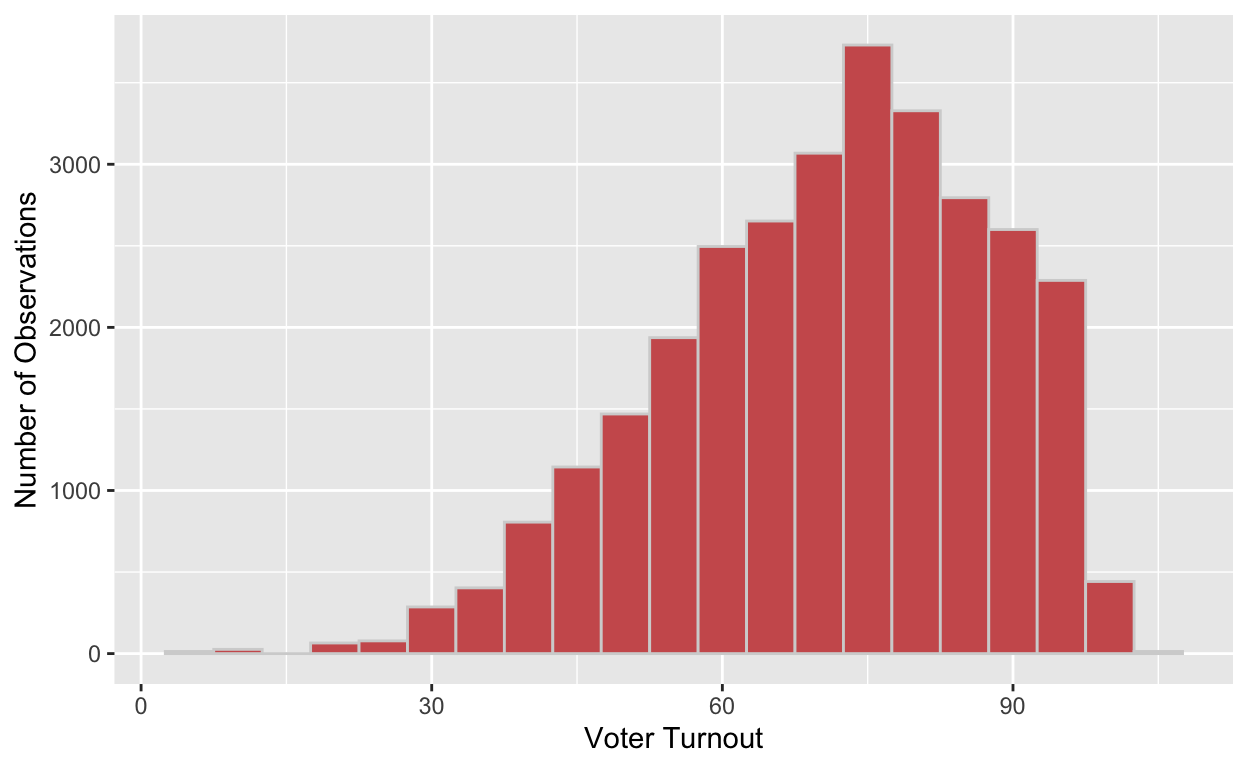
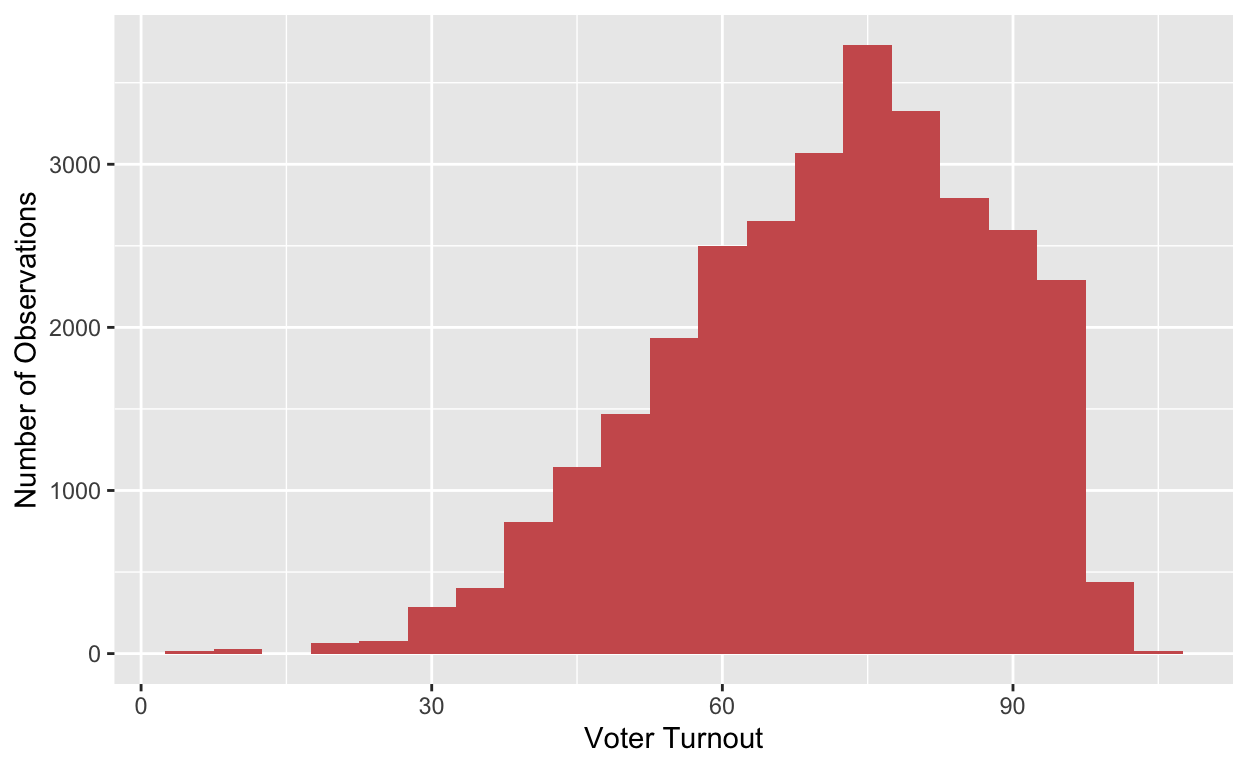
final commits

diff --git a/index.html b/index.html
@@ -1547,8 +1547,8 @@ code span.wa { color: #5e5e5e; font-style: italic; } /* Warning */
 <h2 id="introduction">Introduction</h2>
 <p>In this project, I will study different countries that are classified as electoral democracies and assess how these countries’ democracy level scores impact their election voter turnout.</p>
 <h3 id="hypothesis">Hypothesis</h3>
-<p>My hypothesis is that citizens in countries classified as having a lower level of democracy are going to be less likely to vote than citizens who live in countries that have a higher democracy score. I predict that there will be a positive relationship between my variables. In other words, as the level of democracy increases then voter turnout will also increase.</p>
-<p>I predict this to be the relationship since lower levels of democracy are often linked to corruption which could jeopardize the legitimacy of elections. For citizens living in countries that hold elections that are not free and fair, they could perceive that their vote does not matter leading to lower levels of voter turnout. I believe that this topic is interesting because 100% voter turnout is incredibly rare, and I am interested in how there are some people who actively chose not to vote in their nation’s elections, despite the fact that the policies that their elected officials make will impact them.</p>
+<p>My hypothesis is that citizens in countries classified as having a lower level of democracy are going to be less likely to vote than citizens who live in countries that have a higher democracy score. I predict that there will be a positive relationship between my variables. In other words, as the level of democracy increases the voter turnout will also increase.</p>
+<p>I predict this to be the relationship since lower levels of democracy are often linked to corruption which could jeopardize the legitimacy of elections. For citizens living in countries that hold elections that are not free and fair, they could perceive their vote as not mattering leading to lower levels of voter turnout. I believe that this topic is interesting because 100% voter turnout is incredibly rare, and I am interested in how there are some people who actively chose not to vote in their nation’s elections, despite the fact that the policies that their elected officials make will impact them.</p>
 <div class="layout-chunk" data-layout="l-body">
 
 </div>
@@ -1563,12 +1563,12 @@ code span.wa { color: #5e5e5e; font-style: italic; } /* Warning */
 <h3 id="research-design">Research Design</h3>
 <p>My research design is cross-sectional.</p>
 <h3 id="dependent-and-independent-variables">Dependent and Independent Variables</h3>
-<p>My independent variable is the total aggregate democratic score level from the “Freedom House” data set. This variable is on a scale from 0 to 100, where 100 represents the highest level of freedom and 0 the lowest.</p>
+<p>My independent variable is the democracy level of a country. In this project I used the total aggregate democratic score level from the “Freedom House” data set and the electoral democracy classification variable from the “Electoral Democracy” data. The total score variable is on a scale from 0 to 100, where 100 represents the highest level of freedom and 0 the lowest. The electoral democracy classification variable is either Yes(for an electoral democracy) or No(for a non-electoral democracy).</p>
 <p>My dependent variable is the voter turnout in a country from my data set “Voter Turnout”. This variable is measured as a percentage.</p>
 <h3 id="criteria-for-my-hypothesis">Criteria For My Hypothesis</h3>
 <p>Since my hypothesis is that as the level of democracy increases then voter turnout will also increase, a pattern that would support my hypothesis would be lower voter turnout in countries with lower total democratic level scores and higher voter turnout in countries with greater democratic scores.</p>
 <h2 id="visualizations">Visualizations</h2>
-<h3 id="distribution-of-voter-turnout">Distribution of Voter Turnout</h3>
+<h3 id="visualization-of-the-outcome-variable---voter-turnout">Visualization of the Outcome Variable - Voter Turnout</h3>
 <div class="layout-chunk" data-layout="l-body">
 <p><img src="index_files/figure-html5/unnamed-chunk-3-1.png" alt="" width="624" /></p>
 </div>
@@ -1594,7 +1594,7 @@ code span.wa { color: #5e5e5e; font-style: italic; } /* Warning */
 </table>
 </div>
 <h2 id="table-and-graph-anaylsis">Table and Graph Anaylsis</h2>
-<p>Countries that received the electoral democracy status from Freedom House meet a baseline of being more democratic than the countries that were categorized as non-electoral democracies. Comparing the voter turnout of electoral democracies vs. non-electoral democracies gives us insight into how the level of democracy in a country may impact its voter turnout. Based on the boxplot for voter turnout by electoral democracy status and the table of mean voter turnout for democracies and non-democracies, countries that are classified as electoral democracies have higher levels of voter participation. In the boxplot we can see that the median voter turnout for electoral democracies is higher than the median of non-electoral democracies voter turnout. This is also represented in the table of mean voter turnout, since electoral democracies had a greater mean value of voter turnout than non-electoral democracies did. </p>
+<p>Countries that received the electoral democracy status from Freedom House meet a baseline of being more democratic than the countries that were categorized as non-electoral democracies. Comparing the voter turnout of electoral democracies vs. non-electoral democracies gives us insight into how the level of democracy in a country may impact its voter turnout. Based on the boxplot for voter turnout by electoral democracy status and the table of mean voter turnout for democracies and non-democracies, countries that are classified as electoral democracies have higher levels of voter participation. In the boxplot we can see that the median voter turnout for electoral democracies is higher than the median of non-electoral democracies voter turnout. This is also represented in the table of mean voter turnout, since electoral democracies had a greater mean value of voter turnout than non-electoral democracies did.</p>
 <h2 id="regression">Regression</h2>
 <h3 id="regression-plot">Regression Plot</h3>
 <div class="layout-chunk" data-layout="l-body">
@@ -1633,7 +1633,7 @@ code span.wa { color: #5e5e5e; font-style: italic; } /* Warning */
 <h2 id="regression-analysis">Regression Analysis</h2>
 <p>Based on this regression line, we can see that there is a positive relationship between a country’s democracy score and its voter turnout. The y-intercept is 59.49, which in this context says that the baseline of voter turnout is around 59.49 percent. In addition, for every one point increase in a country’s democracy score given to it by Freedom House(where 0 is a low democracy score and 100 is a high democracy score) voter turnout is expected to increase by 0.16. In addition, the p-value is 0 which indicates high statistical significance. If I want to reject the null hypothesis that democracy level has no impact on voter turnout with 95% confidence, I would use an alpha value of 0.05. Since a p-value of 0 is less than 0.05, we can reject the null hypothesis. We can conclude that these results are incredibly unlikely to have occurred by chance, and therefore interpret that democracy level has a significant positive correlation with voter turnout. While we can see this positive relationship between the variables, in order to with confidence claim a causal relationship we would have to ensure that there are no confounding variables which would be difficult due to the high number of unmeasured differences between countries.</p>
 <h2 id="conclusion">Conclusion</h2>
-<p>Based on these results we found that there is a positive relationship between a country’s democracy score and its voter turnout. By looking at the voter turnout box plot and mean voter turnout by electoral democracy status we can see that on average countries that are classified as electoral democracies have higher levels of voter participation. We can also claim statistical significance based on our regression, since a p-value of 0 allows us to reject our null hypothesis. This allows us to claim that democracy level has a significant positive correlation with voter turnout. The major limitation of this study is trying to account for confounding variables since there are many differences between each country, so different variables could be influencing our results in ways that we are not aware of. If I want to improve this study, I look at the other variables from the Freedom House data(like the Civil Liberties or Political Rights category scores) to analyze which democratic score indicators have the greatest impact on voter turnout. In conclusion, I am able to affirm my original hypothesis that there is a positive relationship between democracy level and voter turnout.</p>
+<p>Based on these results we found that there is a positive relationship between a country’s democracy score and its voter turnout. By looking at the voter turnout box plot and mean voter turnout by electoral democracy status we can see that on average countries that are classified as electoral democracies have higher levels of voter participation. We can also claim statistical significance based on our regression, since a p-value of 0 allows us to reject our null hypothesis. This allows us to claim that democracy level has a significant positive correlation with voter turnout. The major limitation of this study is trying to account for confounding variables since there are many differences between each country, so different variables could be influencing our results in ways that we are not aware of. If I wanted to improve this study, I could look at the other variables from the Freedom House data(like the Civil Liberties or Political Rights category scores) to analyze which democratic score indicators have the greatest impact on voter turnout. In conclusion, I am able to affirm my original hypothesis that there is a positive relationship between democracy level and voter turnout.</p>
 <h2 id="code">Code</h2>
 <div class="layout-chunk" data-layout="l-body">
 <div class="sourceCode">
@@ -1648,6 +1648,7 @@ code span.wa { color: #5e5e5e; font-style: italic; } /* Warning */
 <span></span>
 <span><span class='va'>Freedom_House</span> <span class='op'>&lt;-</span> <span class='fu'><a href='https://readxl.tidyverse.org/reference/read_excel.html'>read_xlsx</a></span><span class='op'>(</span><span class='st'>"data/All_data_FIW_2013-2025.xlsx"</span>, </span>
 <span>    sheet <span class='op'>=</span> <span class='st'>"FIW13-25"</span>, skip <span class='op'>=</span> <span class='fl'>1</span><span class='op'>)</span></span>
+<span></span>
 <span><span class='va'>voter_turnout_names</span> <span class='op'>&lt;-</span> <span class='va'>Voter_Turnout</span> <span class='op'>|&gt;</span></span>
 <span>  <span class='fu'><a href='https://dplyr.tidyverse.org/reference/select.html'>select</a></span><span class='op'>(</span><span class='op'>-</span><span class='va'>ISO2</span>, <span class='op'>-</span><span class='va'>ISO3</span><span class='op'>)</span> <span class='op'>|&gt;</span></span>
 <span>  <span class='fu'><a href='https://dplyr.tidyverse.org/reference/rename.html'>rename</a></span><span class='op'>(</span>Country2 <span class='op'>=</span> <span class='va'>Country</span><span class='op'>)</span> <span class='op'>|&gt;</span></span>
@@ -1682,15 +1683,18 @@ code span.wa { color: #5e5e5e; font-style: italic; } /* Warning */
 <span><span class='va'>Joined_data_extra_clean</span> <span class='op'>&lt;-</span> <span class='va'>Joined_data_clean</span> <span class='op'>|&gt;</span></span>
 <span>  <span class='fu'><a href='https://dplyr.tidyverse.org/reference/mutate-joins.html'>left_join</a></span><span class='op'>(</span><span class='va'>Freedom_House</span> <span class='op'>|&gt;</span> <span class='fu'><a href='https://dplyr.tidyverse.org/reference/select.html'>select</a></span><span class='op'>(</span><span class='va'>Country</span>, <span class='va'>Total</span><span class='op'>)</span>, by <span class='op'>=</span> <span class='st'>"Country"</span><span class='op'>)</span> <span class='op'>|&gt;</span></span>
 <span>  <span class='fu'><a href='https://dplyr.tidyverse.org/reference/rename.html'>rename</a></span><span class='op'>(</span>`Democracy Score` <span class='op'>=</span> <span class='va'>Total</span><span class='op'>)</span></span>
+<span></span>
 <span><span class='fu'><a href='https://ggplot2.tidyverse.org/reference/ggplot.html'>ggplot</a></span><span class='op'>(</span>data <span class='op'>=</span> <span class='va'>Joined_data_extra_clean</span>, <span class='fu'><a href='https://ggplot2.tidyverse.org/reference/aes.html'>aes</a></span><span class='op'>(</span>x <span class='op'>=</span> <span class='va'>`Voter Turnout`</span><span class='op'>)</span><span class='op'>)</span> <span class='op'>+</span></span>
-<span>  <span class='fu'><a href='https://ggplot2.tidyverse.org/reference/geom_histogram.html'>geom_histogram</a></span><span class='op'>(</span>binwidth <span class='op'>=</span> <span class='fl'>5</span>, fill <span class='op'>=</span> <span class='st'>"indianred"</span>, color <span class='op'>=</span> <span class='st'>"lightgrey"</span><span class='op'>)</span> <span class='op'>+</span></span>
+<span>  <span class='fu'><a href='https://ggplot2.tidyverse.org/reference/geom_histogram.html'>geom_histogram</a></span><span class='op'>(</span>binwidth <span class='op'>=</span> <span class='fl'>5</span>, fill <span class='op'>=</span> <span class='st'>"indianred"</span><span class='op'>)</span> <span class='op'>+</span></span>
 <span>  <span class='fu'><a href='https://ggplot2.tidyverse.org/reference/labs.html'>labs</a></span><span class='op'>(</span>x <span class='op'>=</span> <span class='st'>"Voter Turnout"</span>,</span>
 <span>       y <span class='op'>=</span> <span class='st'>"Number of Observations"</span><span class='op'>)</span></span>
-<span><span class='fu'><a href='https://ggplot2.tidyverse.org/reference/ggplot.html'>ggplot</a></span><span class='op'>(</span><span class='va'>Joined_data_clean</span>, <span class='fu'><a href='https://ggplot2.tidyverse.org/reference/aes.html'>aes</a></span><span class='op'>(</span>x <span class='op'>=</span> <span class='va'>`Electoral Democracy`</span>, y <span class='op'>=</span> <span class='va'>`Voter Turnout`</span>, fill <span class='op'>=</span> <span class='va'>`Electoral Democracy`</span><span class='op'>)</span><span class='op'>)</span> <span class='op'>+</span></span>
+<span></span>
+<span><span class='fu'><a href='https://ggplot2.tidyverse.org/reference/ggplot.html'>ggplot</a></span><span class='op'>(</span><span class='va'>Joined_data_clean</span>, <span class='fu'><a href='https://ggplot2.tidyverse.org/reference/aes.html'>aes</a></span><span class='op'>(</span>x <span class='op'>=</span> <span class='va'>`Electoral Democracy`</span>, y <span class='op'>=</span> <span class='va'>`Voter Turnout`</span>, fill <span class='op'>=</span> <span class='va'>`Electoral Democracy`</span><span class='op'>)</span><span class='op'>)</span><span class='op'>+</span></span>
 <span>  <span class='fu'><a href='https://ggplot2.tidyverse.org/reference/geom_boxplot.html'>geom_boxplot</a></span><span class='op'>(</span><span class='op'>)</span> <span class='op'>+</span></span>
 <span>  <span class='fu'><a href='https://ggplot2.tidyverse.org/reference/labs.html'>labs</a></span><span class='op'>(</span></span>
 <span>    x <span class='op'>=</span> <span class='st'>"Electoral Democracy Designation (FIW 2025)"</span>,</span>
 <span>    y <span class='op'>=</span> <span class='st'>"Voter Turnout (%)"</span><span class='op'>)</span></span>
+<span></span>
 <span><span class='va'>Non_Democracy_Mean_Turnout</span> <span class='op'>&lt;-</span> <span class='va'>Joined_data_clean</span> <span class='op'>|&gt;</span></span>
 <span>  <span class='fu'><a href='https://dplyr.tidyverse.org/reference/filter.html'>filter</a></span><span class='op'>(</span><span class='va'>`Electoral Democracy`</span><span class='op'>==</span> <span class='st'>"No"</span><span class='op'>)</span> <span class='op'>|&gt;</span></span>
 <span>  <span class='fu'><a href='https://dplyr.tidyverse.org/reference/summarise.html'>summarize</a></span><span class='op'>(</span>non_democracy_turnout <span class='op'>=</span> <span class='fu'><a href='https://rdrr.io/r/base/mean.html'>mean</a></span><span class='op'>(</span><span class='va'>`Voter Turnout`</span>, na.rm <span class='op'>=</span> <span class='cn'>TRUE</span><span class='op'>)</span><span class='op'>)</span> </span>
@@ -1699,14 +1703,15 @@ code span.wa { color: #5e5e5e; font-style: italic; } /* Warning */
 <span>  <span class='fu'><a href='https://dplyr.tidyverse.org/reference/filter.html'>filter</a></span><span class='op'>(</span><span class='va'>`Electoral Democracy`</span><span class='op'>==</span> <span class='st'>"Yes"</span><span class='op'>)</span> <span class='op'>|&gt;</span></span>
 <span>  <span class='fu'><a href='https://dplyr.tidyverse.org/reference/summarise.html'>summarize</a></span><span class='op'>(</span>democracy_turnout <span class='op'>=</span> <span class='fu'><a href='https://rdrr.io/r/base/mean.html'>mean</a></span><span class='op'>(</span><span class='va'>`Voter Turnout`</span>, na.rm <span class='op'>=</span> <span class='cn'>TRUE</span><span class='op'>)</span><span class='op'>)</span> </span>
 <span></span>
-<span></span>
 <span><span class='va'>Mean_Turnouts</span> <span class='op'>&lt;-</span> <span class='fu'><a href='https://dplyr.tidyverse.org/reference/bind_cols.html'>bind_cols</a></span><span class='op'>(</span><span class='va'>Non_Democracy_Mean_Turnout</span>, <span class='va'>Democracy_Mean_Turnout</span><span class='op'>)</span></span>
 <span></span>
 <span><span class='fu'>knitr</span><span class='fu'>::</span><span class='fu'><a href='https://rdrr.io/pkg/knitr/man/kable.html'>kable</a></span><span class='op'>(</span><span class='va'>Mean_Turnouts</span>, digits <span class='op'>=</span> <span class='fl'>2</span>, col.names <span class='op'>=</span> <span class='fu'><a href='https://rdrr.io/r/base/c.html'>c</a></span><span class='op'>(</span><span class='st'>"Non Democracy Mean Turnout"</span>, <span class='st'>"Democracy Mean Turnout"</span><span class='op'>)</span><span class='op'>)</span></span>
+<span></span>
 <span><span class='va'>regression_plot</span> <span class='op'>&lt;-</span> <span class='fu'><a href='https://ggplot2.tidyverse.org/reference/ggplot.html'>ggplot</a></span><span class='op'>(</span><span class='va'>Joined_data_extra_clean</span>, <span class='fu'><a href='https://ggplot2.tidyverse.org/reference/aes.html'>aes</a></span><span class='op'>(</span>x <span class='op'>=</span> <span class='va'>`Democracy Score`</span>, y <span class='op'>=</span> <span class='va'>`Voter Turnout`</span><span class='op'>)</span><span class='op'>)</span> <span class='op'>+</span></span>
 <span><span class='fu'><a href='https://ggplot2.tidyverse.org/reference/geom_point.html'>geom_point</a></span><span class='op'>(</span>color <span class='op'>=</span> <span class='st'>"darkgray"</span>, alpha <span class='op'>=</span> <span class='fl'>0.5</span><span class='op'>)</span> <span class='op'>+</span></span>
 <span>  <span class='fu'><a href='https://ggplot2.tidyverse.org/reference/geom_smooth.html'>geom_smooth</a></span><span class='op'>(</span>method <span class='op'>=</span> <span class='st'>"lm"</span>, se <span class='op'>=</span> <span class='cn'>FALSE</span>, color <span class='op'>=</span> <span class='st'>"indianred"</span>, size <span class='op'>=</span> <span class='fl'>1.5</span><span class='op'>)</span></span>
 <span><span class='va'>regression_plot</span></span>
+<span></span>
 <span><span class='va'>regression</span> <span class='op'>&lt;-</span> <span class='fu'><a href='https://rdrr.io/r/stats/lm.html'>lm</a></span><span class='op'>(</span><span class='va'>`Voter Turnout`</span> <span class='op'>~</span> <span class='va'>`Democracy Score`</span>, data <span class='op'>=</span> <span class='va'>Joined_data_extra_clean</span><span class='op'>)</span></span>
 <span></span>
 <span><span class='fu'><a href='https://generics.r-lib.org/reference/tidy.html'>tidy</a></span><span class='op'>(</span><span class='va'>regression</span><span class='op'>)</span> <span class='op'>|&gt;</span></span>
